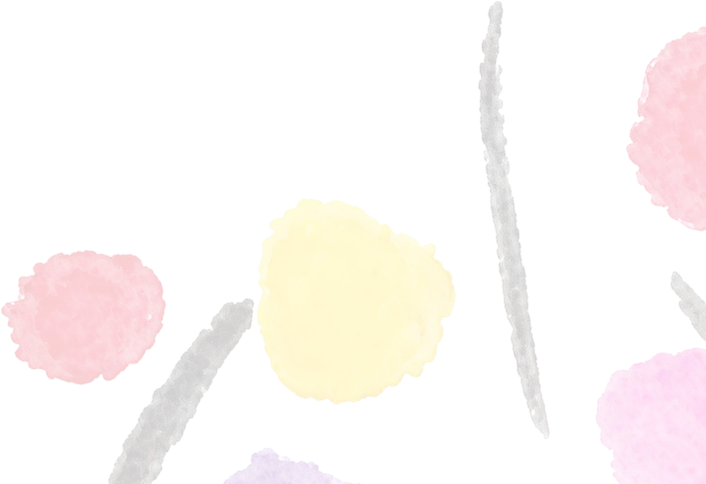
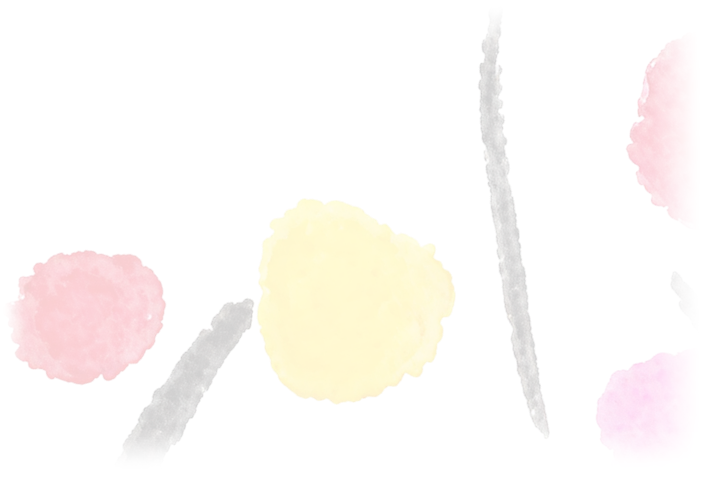
Soften cluster deco edges and add catering slot swap
Remove the cut-off purple remnant and fade clipped branch ends in
both cluster assets so they blend into the page instead of ending
abruptly. Use the soft variant on the catering page, positioned
beside the tray so it stays clear of the dagwa selector cards.
Tapping a filled tray slot and then another slot now swaps their
contents, matching the 칸 교체 guide pill.

diff --git a/lib/widgets/catering_section.dart b/lib/widgets/catering_section.dart
@@ -75,7 +75,16 @@ class _CateringSectionState extends State<CateringSection> {
   }
 
   void _selectSlot(int index) {
-    setState(() => _activeSlot = index);
+    setState(() {
+      final prev = _activeSlot;
+      // 채워진 칸이 선택된 상태에서 다른 칸을 누르면 자리를 맞바꾼다(빈 칸이면 이동).
+      if (prev != null && prev != index && _slots[prev] != null) {
+        final moved = _slots[prev];
+        _slots[prev] = _slots[index];
+        _slots[index] = moved;
+      }
+      _activeSlot = index;
+    });
   }
 
   void _addDagwa(_DagwaOption option) {
@@ -105,8 +114,8 @@ class _CateringSectionState extends State<CateringSection> {
             children: [
               Positioned(
                 right: 0,
-                top: 625 * deco,
-                child: WatercolorDeco(decoCluster, width: 706 * deco),
+                top: 470 * deco,
+                child: WatercolorDeco(decoClusterSoft, width: 535 * deco),
               ),
               SectionShell(
                 maxWidth: 1040,
@@ -454,7 +463,7 @@ class _UsageGuideCard extends StatelessWidget {
                   Flexible(
                     fit: compact ? FlexFit.loose : FlexFit.tight,
                     child: Text(
-                      '상자 칸을 먼저 누르고 아래 다과 카드의 담기를 선택하세요. 이미 채운 칸을 누르면 새 다과로 교체됩니다.',
+                      '상자 칸을 먼저 누르고 아래 다과 카드의 담기를 선택하세요. 채워진 칸을 누른 뒤 다른 칸을 누르면 두 칸의 자리가 서로 바뀝니다.',
                       style: TextStyle(
                         color: const Color(0xFF8B7D7A),
                         fontFamily: 'Gowun Batang',
